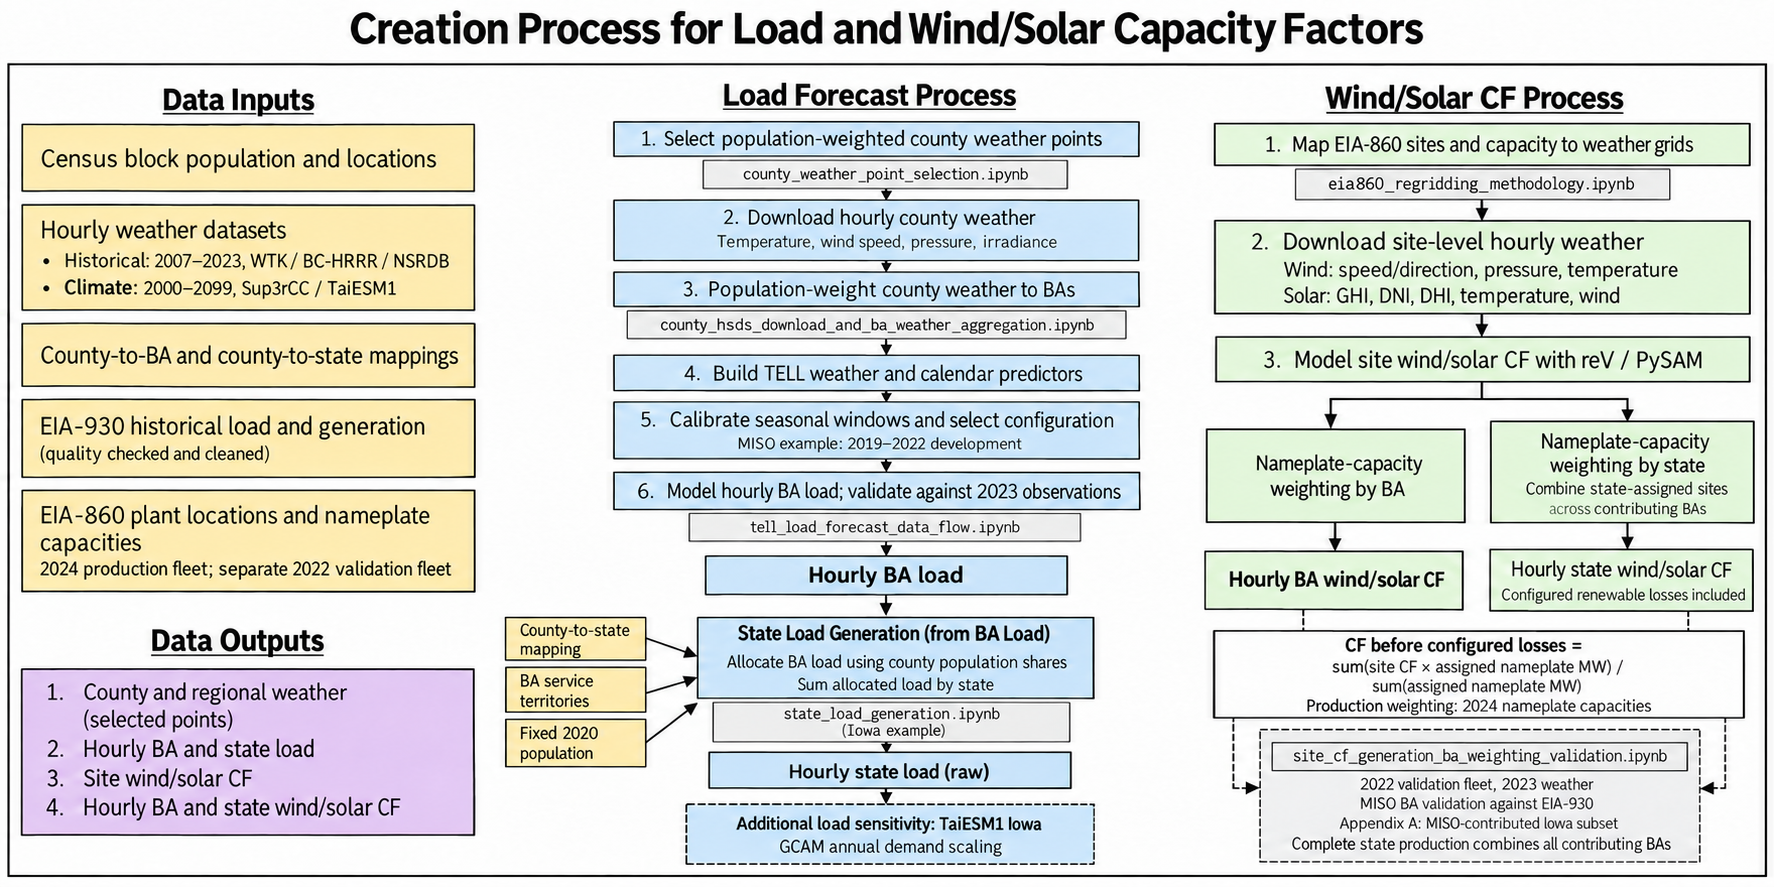
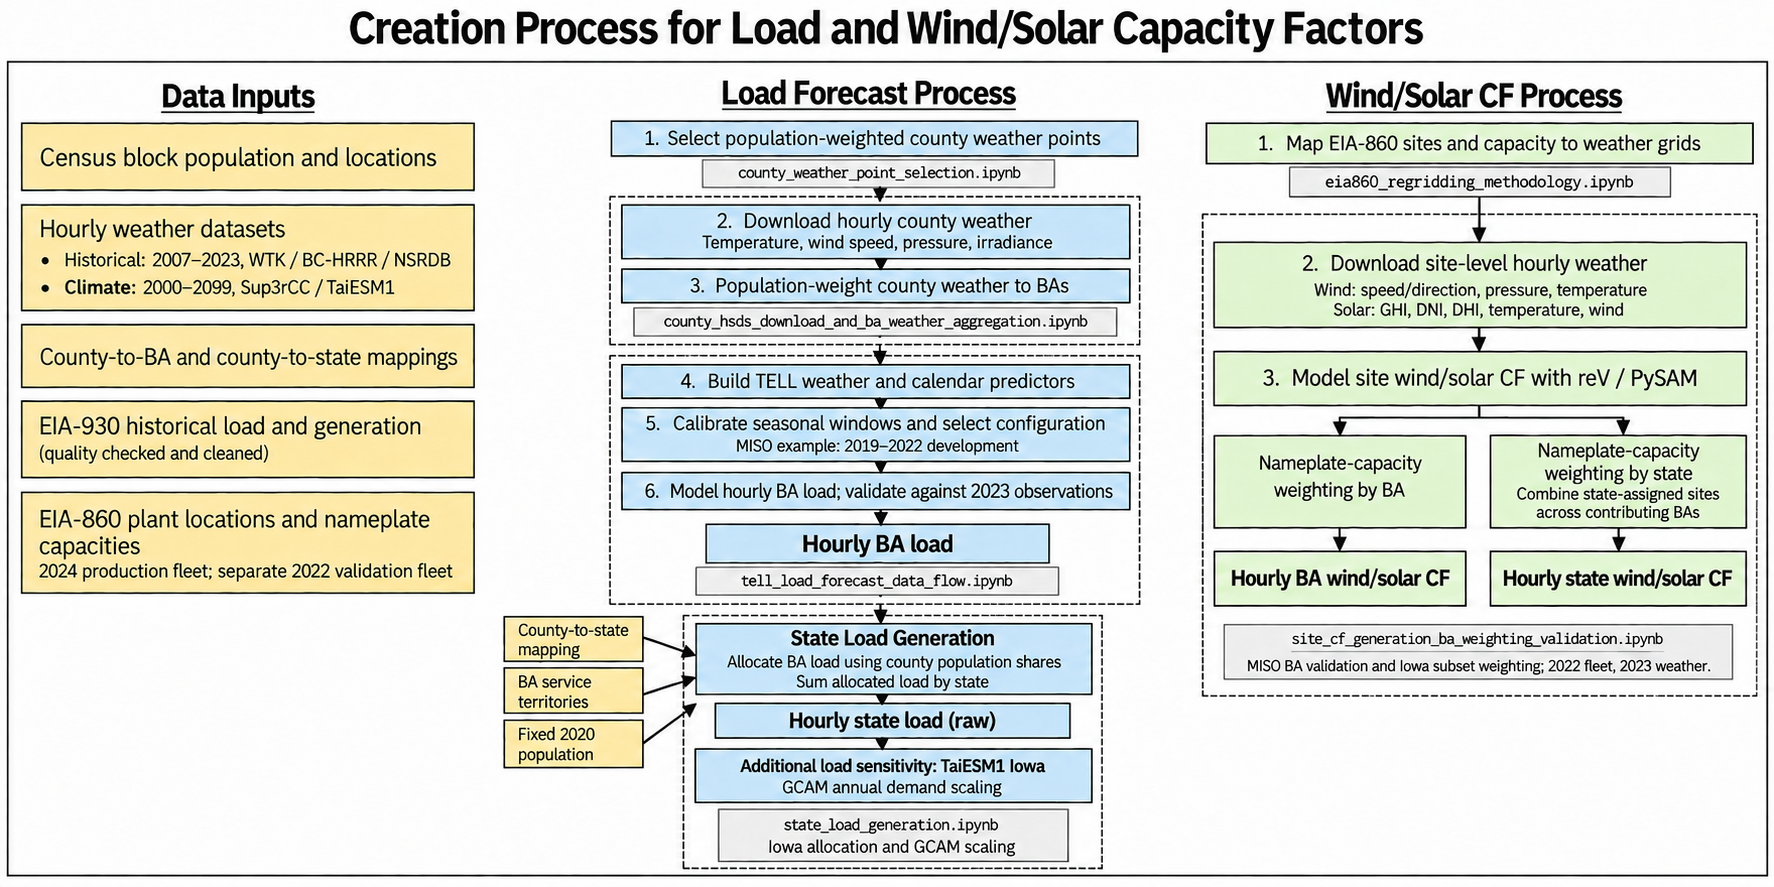
Clarify notebook setup and simplify workflow diagrams

diff --git a/RUNNING_NOTEBOOKS.md b/RUNNING_NOTEBOOKS.md
@@ -1,0 +1,61 @@
+# Running the notebooks
+
+Saved results can be reviewed on GitHub without installing anything. Use this
+guide to run the notebooks locally; dataset coverage and interpretation are in
+the [README](README.md).
+
+## Set up the environment
+
+With Conda installed, run these commands from the repository root (the folder
+containing `environment.yml`):
+
+```shell
+conda env create -f environment.yml
+conda activate wxdata-notebooks
+python -m ipykernel install --user --name wxdata-notebooks --display-name "Python (wxdata-notebooks)"
+jupyter lab notebooks
+```
+
+This registers the environment as **Python (wxdata-notebooks)**. In each
+notebook, use **Kernel → Change Kernel** to select it, even if another kernel
+is already selected. Published notebooks retain `wxdata` or `python3` kernel
+names, which do not guarantee the repository environment is active.
+
+On later visits, only activate the environment and start JupyterLab;
+environment creation and kernel registration are one-time steps.
+
+On Windows, a short checkout path such as `C:/work/wxdata-notebooks` helps avoid
+path-length problems with the dataset filenames.
+
+## Run a first example
+
+Open [MISO load-duration curve](notebooks/validation/miso_load_duration_curve.ipynb)
+under `validation/` in JupyterLab. Select the kernel above, then
+**Restart Kernel and Run All**. Keep `YEAR = 2023` to use the bundled inputs.
+
+All inputs for this example are bundled. It needs no dataset download, weather
+service, or model training. It displays one figure and saves:
+
+```text
+data_outputs/validation/miso_load_duration_curve/miso_2023_load_duration_curve.png
+```
+
+Keep notebooks in their existing folders: their paths are relative to those
+folders. Each notebook states its inputs and writes generated files under
+`data_outputs/` where applicable. The [notebook index](README.md#notebook-index)
+lists the other examples and their requirements.
+
+## Notebooks with additional requirements
+
+| Notebook or stage | What rerunning requires |
+| --- | --- |
+| [County point selection](notebooks/data_flow/county_weather_point_selection.ipynb) and [EIA regridding](notebooks/data_flow/eia860_regridding_methodology.ipynb): grid matching | A configured local HSDS service at `http://localhost:5101` with access to `nrel-pds-hsds`. Earlier preparation steps use bundled files. |
+| [County weather aggregation](notebooks/data_flow/county_hsds_download_and_ba_weather_aggregation.ipynb): weather staging | Weather caches that pass the notebook's checks, or the same HSDS service to download missing files. |
+| [Site CF generation](notebooks/data_flow/site_cf_generation_ba_weighting_validation.ipynb) | Local reV/PySAM model execution, plus checked weather caches or HSDS for missing weather files. |
+| [TELL load forecasting](notebooks/data_flow/tell_load_forecast_data_flow.ipynb) | Local calibration, model training, and prediction with TELL. The [state-load example](notebooks/data_flow/state_load_generation.ipynb) instead runs allocation and scaling from bundled BA forecasts. |
+| [Satellite and reanalysis context](notebooks/analysis/plot_satellite_and_reanalysis.ipynb) | Network access to NASA Worldview and NOAA PSL. |
+
+The environment specification includes the modeling libraries; it does not
+start an HSDS service or supply its access configuration. Acquisition settings
+and cache checks are beside the relevant notebook stages. Acquisition H5 caches
+are not bundled with the repository.

diff --git a/README.md b/README.md
@@ -26,6 +26,9 @@ Filenames identify the notebooks linked in the index; click a diagram to enlarge
 <a id="quick-start"></a>
 <a id="install-and-run-the-first-example"></a>
 
+To set up the environment and run a bundled-data example, see
+[Running the notebooks](RUNNING_NOTEBOOKS.md).
+
 ## Notebook index
 
 Each notebook states its inputs, assumptions, and calculations. Results appear
@@ -79,7 +82,7 @@ Each notebook lists any additional software or external-data requirements.
 Sample files are bundled in `data_inputs/examples/` and require no extraction.
 Other supporting inputs are in `data_inputs/`; generated results go to `data_outputs/`.
 
-The [input manifest](manifests/notebook_inputs.csv) records each bundled file's
+The [input manifest](manifests/notebook_inputs.csv) records each selected release sample's
 source, selected years/columns/scenarios, notebook consumers, size, and checksum.
 Its `path` locates the bundled file; `source_path` identifies the original
 archive-relative release file.
